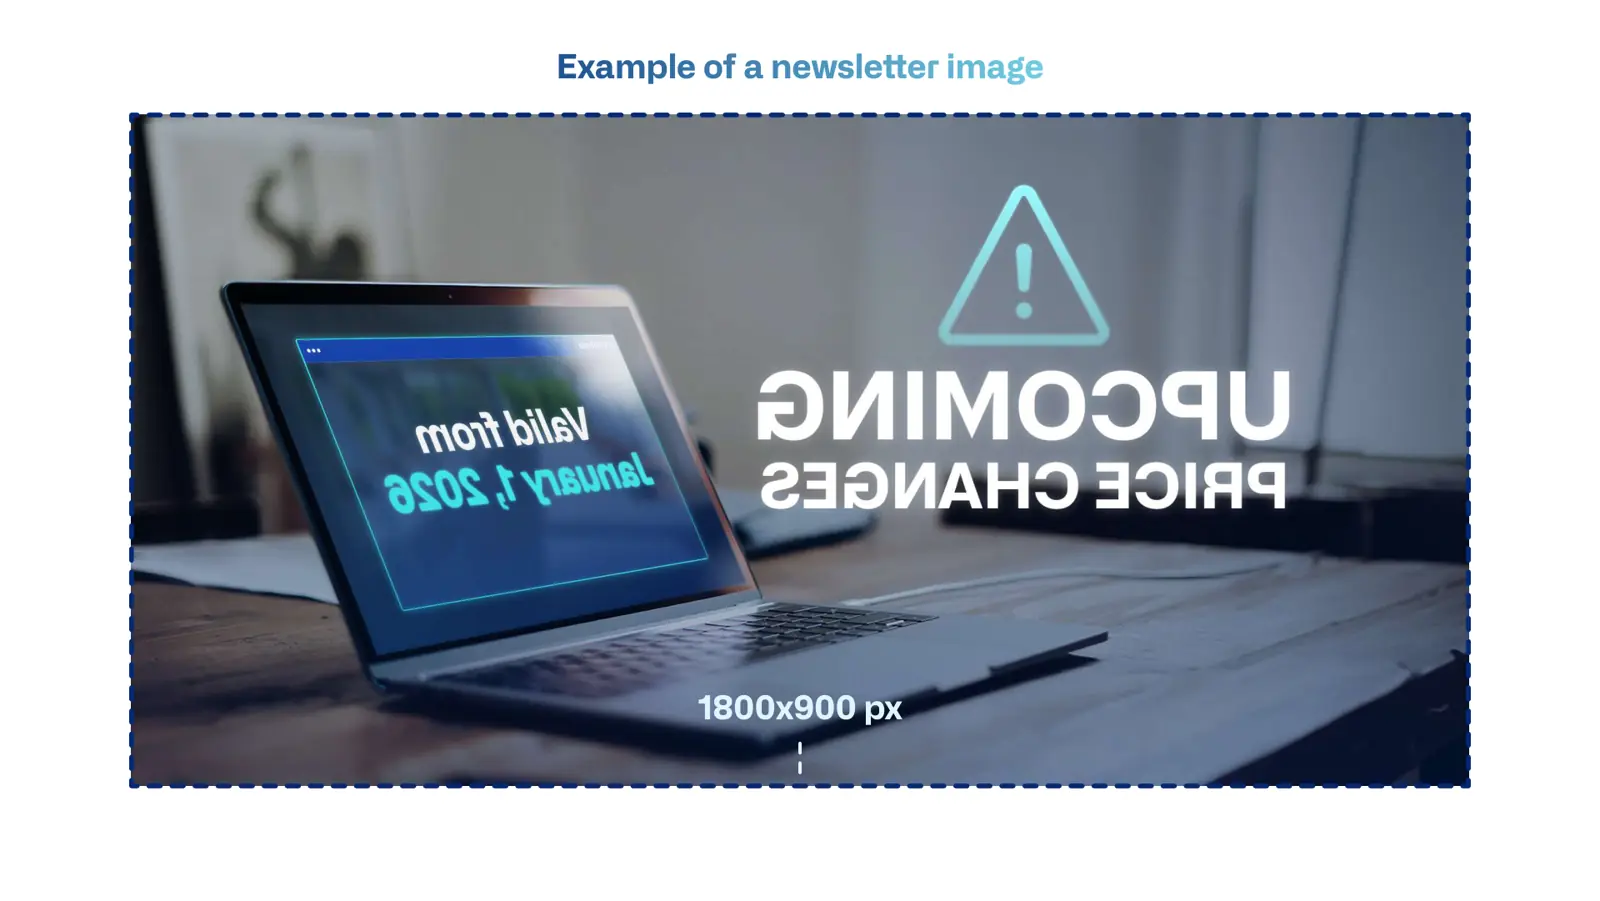
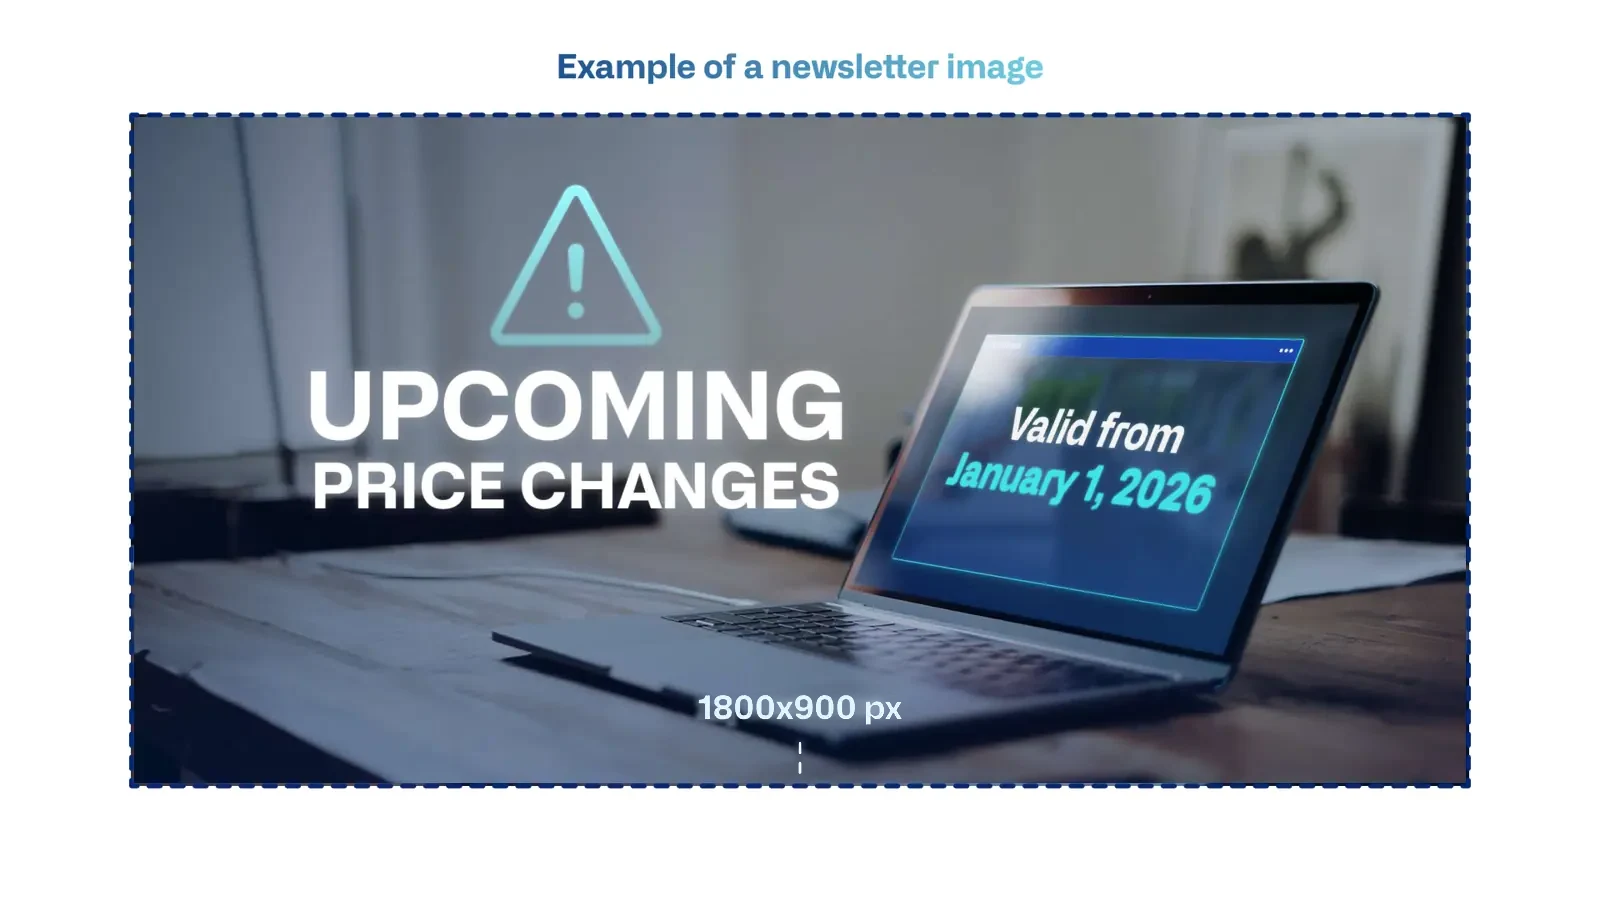
Cloud video behind payoff; un-mirror newsletter photo on guide p59
The photo inside the p59 frame was mirrored in the source brand guide PDF.
Flip it back inside the dashed frame and keep the 1800x900 label readable.

diff --git a/index.html b/index.html
@@ -11,7 +11,7 @@
 <link rel="apple-touch-icon" href="apple-touch-icon.png?v=1">
 <link rel="preload" href="Assets/fonts/AllianceNo2-Regular.ttf" as="font" type="font/ttf" crossorigin>
 <link rel="preload" href="Assets/fonts/AllianceNo2-Bold.ttf" as="font" type="font/ttf" crossorigin>
-<link rel="stylesheet" href="Assets/css/hub.css?v=202611241230">
+<link rel="stylesheet" href="Assets/css/hub.css?v=202611241236">
 <script src="https://kit.fontawesome.com/c11880975e.js" crossorigin="anonymous"></script>
 </head>
 <body>
@@ -186,6 +186,10 @@
       </div>
 
       <div class="payoff">
+        <video class="payoff__vid" muted loop playsinline preload="none" aria-hidden="true">
+          <source src="Assets/video/brand-clouds.webm" type="video/webm">
+          <source src="Assets/video/brand-clouds.mp4" type="video/mp4">
+        </video>
         <p>Our payoff: <span>It’s about time.</span></p>
         <small>Use it when the message is about the value of time — our promise to customers and partners.</small>
       </div>
@@ -968,6 +972,6 @@
 </dialog>
 <div class="toast" id="toast" role="status" aria-live="polite"></div>
 
-<script src="Assets/js/hub.js?v=202611241230"></script>
+<script src="Assets/js/hub.js?v=202611241236"></script>
 </body>
 </html>

diff --git a/Assets/css/hub.css b/Assets/css/hub.css
@@ -384,7 +384,17 @@ p { margin: 0; }
   padding: 44px 48px;
   position: relative;
   overflow: hidden;
+  isolation: isolate;
 }
+.payoff__vid { position: absolute; inset: 0; z-index: -2; width: 100%; height: 100%; object-fit: cover; pointer-events: none; }
+.payoff::before {
+  content: "";
+  position: absolute;
+  inset: 0;
+  z-index: -1;
+  background: linear-gradient(100deg, rgba(5,41,117,.86) 0%, rgba(5,41,117,.70) 55%, rgba(5,41,117,.55) 100%);
+}
+@media (prefers-reduced-motion: reduce) { .payoff__vid { display: none; } }
 .payoff p { font-size: clamp(1.75rem, calc(1.2rem + 1.6vw), 2.5rem); font-weight: 700; line-height: 1.15; max-width: 22ch; position: relative; }
 .payoff p span { color: var(--c-innovation-blue); }
 .payoff small { display: block; margin-top: 16px; font-size: var(--fs-sm); color: rgba(255,255,255,.7); position: relative; }

diff --git a/Assets/js/hub.js b/Assets/js/hub.js
@@ -189,7 +189,7 @@
   // Hero and contact banner share the clouds clip. Each plays only while on
   // screen. Some browsers drop the muted attribute on autoplay, so set it as
   // a property and call play() so the clip never gets blocked.
-  var vids = document.querySelectorAll(".hero__vid, .contact__vid");
+  var vids = document.querySelectorAll(".hero__vid, .payoff__vid, .contact__vid");
   if (vids.length && !window.matchMedia("(prefers-reduced-motion: reduce)").matches) {
     var play = function (v) {
       v.muted = true;
